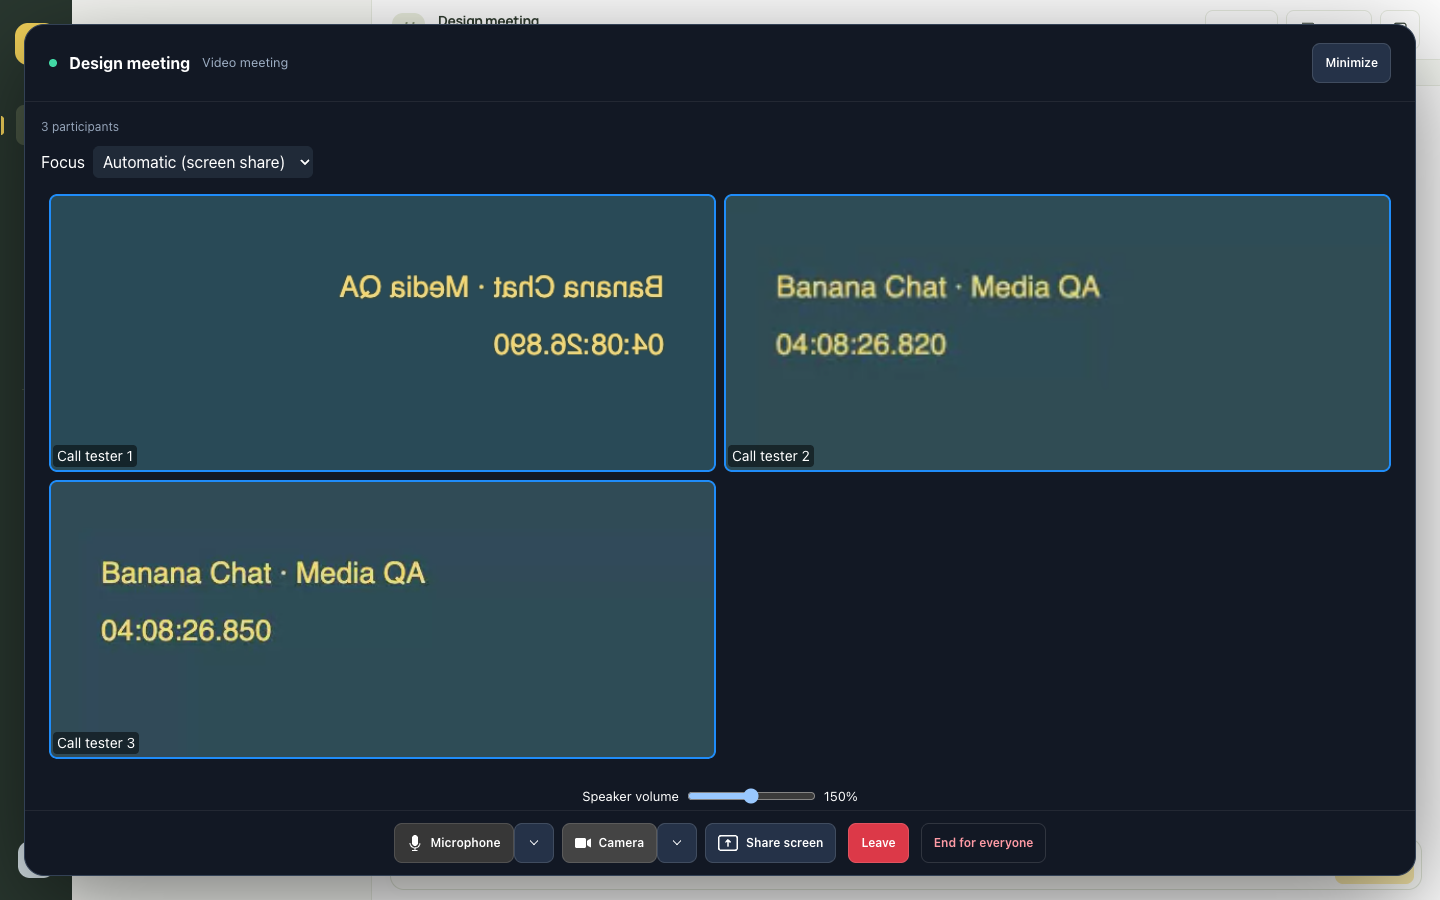
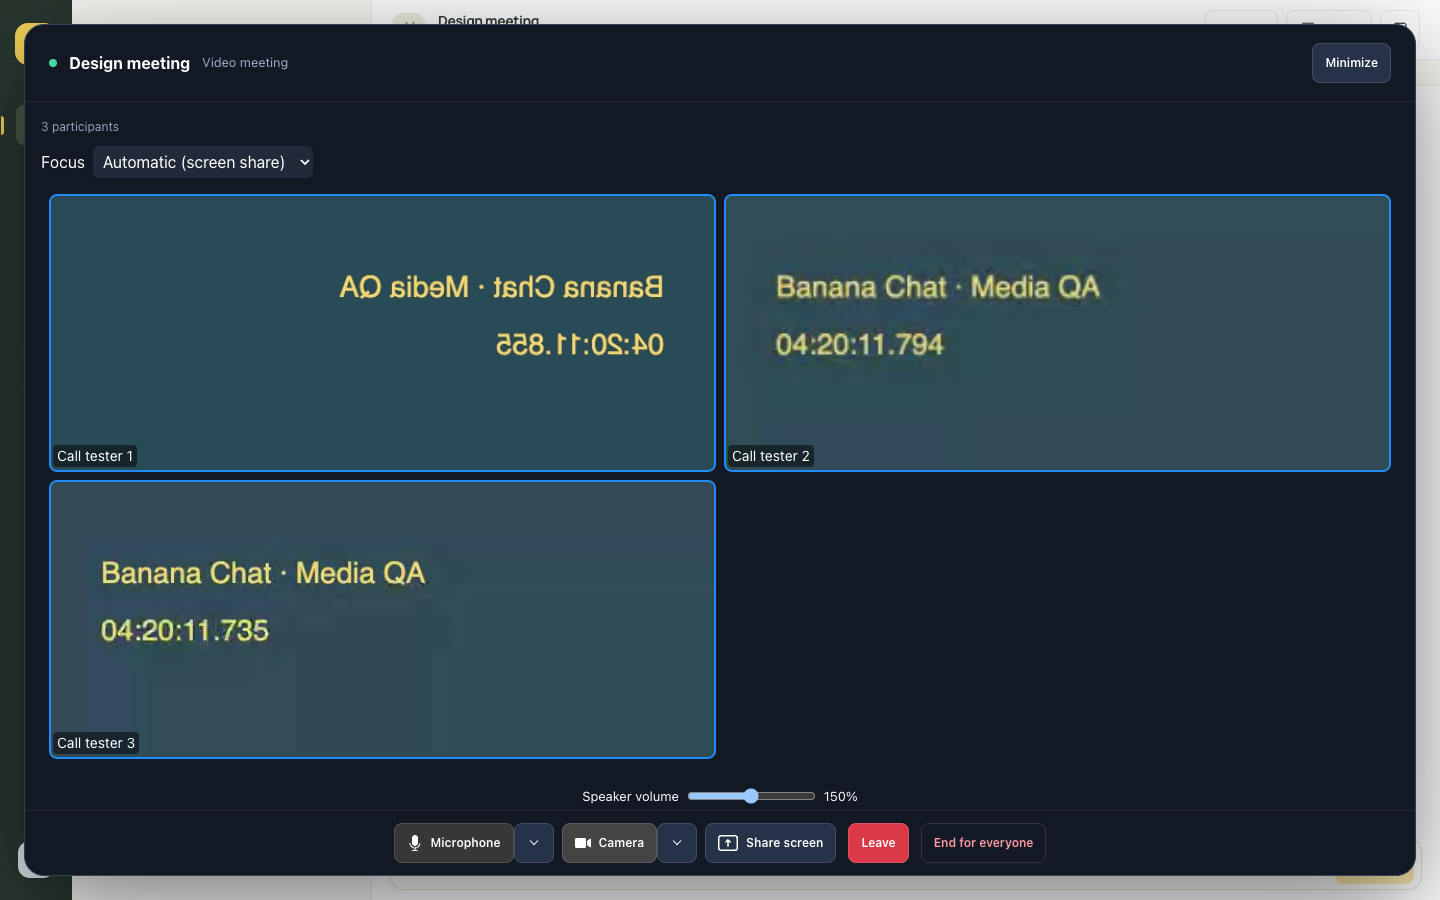
docs(TC-CALL-011): correct the TURN TLS root cause and re-resolve the livekit mount
The deleted cert directory did NOT cause the TC-CALL-011 failure: LiveKit loads
cert_file/key_file at startup and does not re-read them, so the running SFU never
saw the deletion — `docker exec livekit ls -la /certs` was still an empty orphaned
inode after the host-side restore, yet TC-CALL-011 passed. That single failure was
transient (three relay-forced Chrome contexts against a 45s timeout).

The deletion was a latent outage instead: the restore never reached the running
container, so the next restart would have found /certs empty. Recreated the livekit
container to re-resolve the bind mount; /certs is now populated inside it and all 15
private-call checks including TC-CALL-011 pass from that cold start.

Changed region(s): [[0.0625, 0.6844, 0.1875, 0.7156], [0.5625, 0.3733, 0.6562, 0.4044], [0.3438, 0.3733, 0.4375, 0.4044]]

diff --git a/docs/reviews/2026-09-16/requirements/README.md b/docs/reviews/2026-09-16/requirements/README.md
@@ -53,11 +53,24 @@ byte-identical before and after the run.
    container removal and left `api` stopped. Fixed by force-removing the stale containers and
    bringing the stack up again. The retry was removed from the helper. No data loss.
 2. **`rsync --delete` removed production-only files.** `infra/livekit/config.yaml` and
-   `infra/livekit/certs/` (the TURN TLS certificate) were deleted, which broke TURN TLS —
-   `TC-CALL-011` failed with zero relayed bytes while host-candidate calls still worked. The
-   certificate directory is a directory bind mount, so removing it on the host empties the
-   container's view. Restored from `/root/banana-chat-backups/extra-reqs-20260916`, after which
-   `TC-CALL-011` passed again. The same `--delete` also removed `IncomingRingtone.tsx`,
+   `infra/livekit/certs/` (the TURN TLS certificate) were deleted and restored from
+   `/root/banana-chat-backups/extra-reqs-20260916`.
+
+   The first hypothesis — that this deletion caused the `TC-CALL-011` forced-TURN-TLS failure —
+   was **wrong, and was checked rather than assumed**. `docker exec livekit ls -la /certs`
+   showed the container's mount was an empty orphaned inode *after* the host-side restore, yet
+   `TC-CALL-011` passed on the re-run: LiveKit loads `cert_file`/`key_file` into memory at
+   startup and does not re-read them per handshake, so the running SFU never noticed. The single
+   `TC-CALL-011` failure was therefore transient (three relay-forced Chrome contexts from one
+   laptop against a 45 s timeout), not caused by the deletion.
+
+   The deletion was still a latent outage: the restore did not reach the running container, so
+   the **next** LiveKit restart would have found `/certs` empty and failed to serve TURN TLS.
+   `docker compose up -d --force-recreate --no-deps livekit` was run to re-resolve the bind
+   mount; `/certs` is now populated inside the container and the full 15-check private-call
+   suite, `TC-CALL-011` included, passes from that cold start.
+
+   The same `--delete` also removed `IncomingRingtone.tsx`,
    `notification-audio.ts` and `buttons.css`, which existed on `origin/main` but not on the
    deploying branch, so the rebuilt SPA shipped without the FR-CALL-001 ringtone for about an
    hour; the merge above restored it and the live bundle was re-checked.
